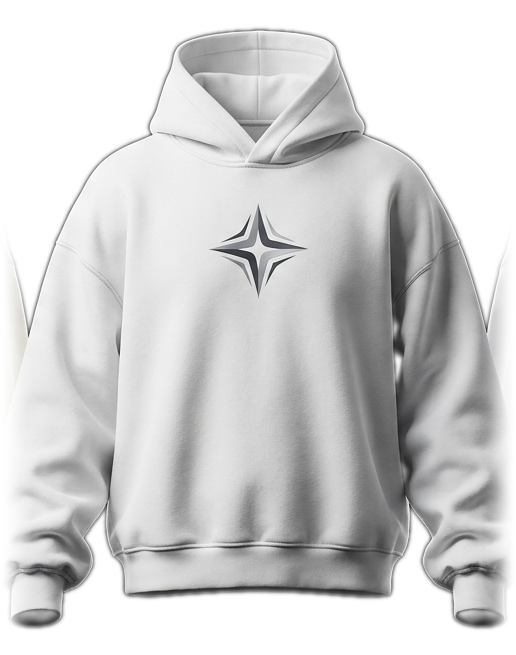
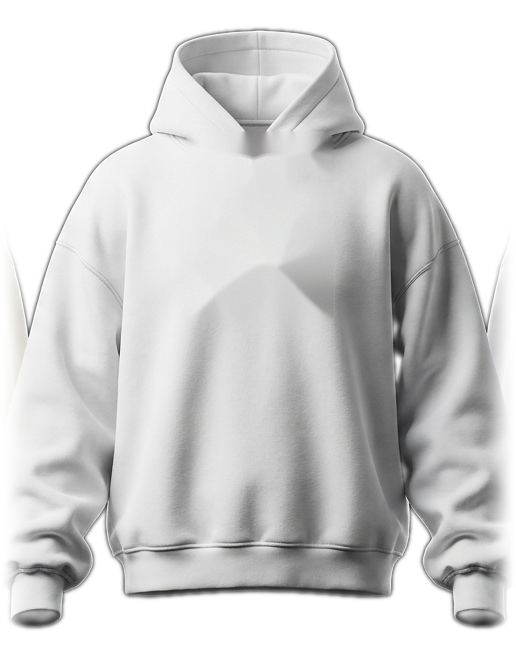
feat: add smooth sliding animations for segmented tabs and page transitions

Changed region(s): [[0.4031, 0.3053, 0.6512, 0.4885], [0.3721, 0.1832, 0.6512, 0.2748], [0.4031, 0.4275, 0.4341, 0.458]]

diff --git a/src/components/SlidingTabs.tsx b/src/components/SlidingTabs.tsx
@@ -1,0 +1,141 @@
+import React, { useRef, useState, useLayoutEffect, useEffect, useCallback } from 'react';
+
+export interface SlidingTabOption<T extends string> {
+  id: T;
+  label: React.ReactNode;
+  ariaLabel?: string;
+}
+
+interface SlidingTabsProps<T extends string> {
+  options: SlidingTabOption<T>[];
+  value: T;
+  onChange: (val: T) => void;
+  ariaLabel?: string;
+  className?: string;
+  buttonClassName?: string;
+  activePillClassName?: string;
+}
+
+export function SlidingTabs<T extends string>({
+  options,
+  value,
+  onChange,
+  ariaLabel,
+  className = '',
+  buttonClassName = '',
+  activePillClassName = '',
+}: SlidingTabsProps<T>) {
+  const containerRef = useRef<HTMLDivElement>(null);
+  const buttonRefs = useRef<(HTMLButtonElement | null)[]>([]);
+  const [pillRect, setPillRect] = useState<{
+    left: number;
+    top: number;
+    width: number;
+    height: number;
+  } | null>(null);
+  const [isReady, setIsReady] = useState(false);
+
+  const activeIndex = Math.max(0, options.findIndex((opt) => opt.id === value));
+
+  const updatePill = useCallback(() => {
+    const container = containerRef.current;
+    const activeButton = buttonRefs.current[activeIndex];
+    if (!container || !activeButton) return;
+
+    const left = activeButton.offsetLeft;
+    const top = activeButton.offsetTop;
+    const width = activeButton.offsetWidth;
+    const height = activeButton.offsetHeight;
+
+    setPillRect({ left, top, width, height });
+  }, [activeIndex]);
+
+  // Recalculate on value change or options length change
+  useLayoutEffect(() => {
+    updatePill();
+  }, [updatePill, value, options.length]);
+
+  // Handle mount transition suppression and window resizing
+  useEffect(() => {
+    updatePill();
+    const frameId = requestAnimationFrame(() => {
+      updatePill();
+      setIsReady(true);
+    });
+
+    const handleResize = () => {
+      updatePill();
+    };
+
+    window.addEventListener('resize', handleResize);
+
+    let observer: ResizeObserver | null = null;
+    if (typeof ResizeObserver !== 'undefined' && containerRef.current) {
+      observer = new ResizeObserver(() => {
+        updatePill();
+      });
+      observer.observe(containerRef.current);
+    }
+
+    return () => {
+      cancelAnimationFrame(frameId);
+      window.removeEventListener('resize', handleResize);
+      if (observer) observer.disconnect();
+    };
+  }, [updatePill]);
+
+  return (
+    <div
+      ref={containerRef}
+      role="radiogroup"
+      aria-label={ariaLabel}
+      className={`relative ${className}`}
+    >
+      {/* Animated Sliding Active White Pill */}
+      {pillRect && (
+        <div
+          aria-hidden="true"
+          className={`absolute rounded-[22px] bg-white pointer-events-none shadow-[0_4px_14px_rgba(0,0,0,0.35)] z-[5] ${
+            isReady ? 'transition-all duration-280 ease-[cubic-bezier(0.16,1,0.3,1)]' : 'transition-none'
+          } ${activePillClassName}`}
+          style={{
+            transform: `translate3d(${pillRect.left}px, ${pillRect.top}px, 0)`,
+            width: `${pillRect.width}px`,
+            height: `${pillRect.height}px`,
+          }}
+        />
+      )}
+
+      {/* Tab Options */}
+      {options.map((opt, idx) => {
+        const isSelected = opt.id === value;
+        return (
+          <button
+            key={opt.id}
+            ref={(el) => {
+              buttonRefs.current[idx] = el;
+            }}
+            type="button"
+            role="radio"
+            aria-checked={isSelected}
+            aria-label={opt.ariaLabel}
+            onClick={() => onChange(opt.id)}
+            className={`pill-btn btn-press relative z-[1] select-none ${buttonClassName} ${
+              isSelected
+                ? '!border-transparent !bg-transparent'
+                : '!bg-white/[0.06] border border-white/20 hover:border-white/35'
+            }`}
+          >
+            <span
+              className={`relative z-[10] transition-colors duration-200 ${
+                isSelected ? 'text-[#0a0a0b] font-bold' : 'text-white font-medium hover:text-white'
+              }`}
+            >
+              {opt.label}
+            </span>
+          </button>
+        );
+      })}
+    </div>
+  );
+}
